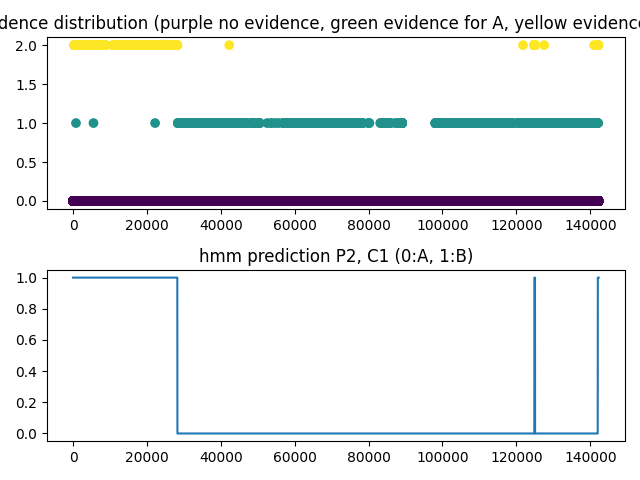
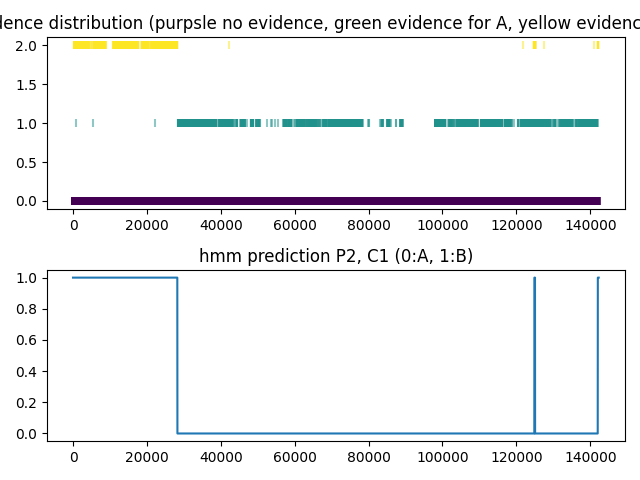
documentation and prettify of plots

diff --git a/scripts/hmm_reads.py b/scripts/hmm_reads.py
@@ -59,7 +59,7 @@ if __name__ == "__main__":
     for population in populations:
         for timestep in timesteps:
             for read in reads:
-                file=f'/home/jack/code/recombinant_population_analysis/results/msa/P2/7/P2_7_{read}_msa.fasta'
+                file=f'results/msa/P2/7/P2_7_{read}_msa.fasta'
                 out_folder=f'results/plots/recombination_evidences/reads/{population}_{timestep}_msa.png'
 
                 msa_matrix=read_msa(file)
@@ -68,15 +68,15 @@ if __name__ == "__main__":
                 
                 print(e_distribution)
 
-                o = viterbi(e_distribution, tp_np, ep_np, ip_np)
+                hmm_prediction = viterbi(e_distribution, tp_np, ep_np, ip_np)
 
                 plt.subplot(2, 1, 1)
-                plt.plot(e_distribution)
+                plt.scatter(range(len(e_distribution)), e_distribution, c=e_distribution, marker='|', alpha=0.5)
                 plt.title('e_distribution')
 
                 plt.subplot(2, 1, 2)
-                plt.plot(o)
-                plt.title('o')
+                plt.plot(hmm_prediction)
+                plt.title('hmm_prediction')
 
                 plt.tight_layout()
                 plt.show()

diff --git a/scripts/hmm_clones.py b/scripts/hmm_clones.py
@@ -69,7 +69,7 @@ if __name__ == "__main__":
             hmm_prediction = viterbi(e_distribution, tp_np, ep_np, ip_np)
 
             plt.subplot(2, 1, 1)
-            plt.scatter(range(len(e_distribution)), e_distribution, c=e_distribution)
+            plt.scatter(range(len(e_distribution)), e_distribution, c=e_distribution, marker='|', alpha=0.5)
             plt.title('evidence distribution (purple no evidence, green evidence for A, yellow evidence for B)')
 
             plt.subplot(2, 1, 2)

diff --git a/notes/note1.md b/notes/note1.md
@@ -33,10 +33,10 @@ To test that it is working i have to define some reasonable probability matrices
 
 - emission probability matrix
 
-|    |a         |b        |.        |
-|----|----------|---------|---------|
-|A   |0.40      |0.01     |0.59     |
-|B   |0.01      |0.40     |0.59     |
+|    |.        |a        |b        |
+|----|---------|---------|---------|
+|A   |0.59     |0.40     |0.01     |
+|B   |0.59     |0.01     |0.40     |
 
 Now i will generate sequences with these probabilities
 
@@ -68,10 +68,10 @@ i think that to use the viterbi script i have to convert every title of the matr
 
 - emission probability matrix
 
-|    |0         |1        |2        |
-|----|----------|---------|---------|
-|0   |0.40      |0.01     |0.59     |
-|1   |0.01      |0.40     |0.59     |
+|    |0        |1        |2        |
+|----|---------|---------|---------|
+|0   |0.59     |0.40     |0.01     |
+|1   |0.59     |0.01     |0.40     |
 
 for this reason the previously produced sequence has to be translated to numbers
 
@@ -99,4 +99,47 @@ The recombination evidences are extracted from the msa of the two reference sequ
 
 In hmm.py it is defined the Viterbi algorithm and the probability matrices. We take the recombination evidences of the clones and we give them in input to the Viterbi algorithm.
 
+for the clones i used the following matrices:
+
+- initial probability matrix
+
+|    |      |
+|----|------|
+|0   |0.5   |
+|1   |0.5   |
+
+- transition probability matrix
+
+|    |0       |1       |
+|----|--------|--------|
+|0   |0.999   |0.001   |
+|1   |0.00    |0.999   |
+
+- emission probability matrix
+
+|    |0         |1        |2        |
+|----|----------|---------|---------|
+|0   |0.949     |0.05     |0.001    |
+|1   |0.949     |0.001    |0.05     |
+
+to obtain sensible results from i modified the viterbi algorithm to do additions between logarithms instead of multiplications between probabilities. this is because otherwise the probability would become too small.
+
+this is the result:
+![example_clone_prediction](../results/plots/clones/P2_C2_msa.png)
+
 ### reads of phage population
+
+the same procedure is applied to the reads of the population. in this case the array of evidences is much more noisy:
+
+![noisy_read_evidences](images/noisy_read_evidences.png)
+
+i tried to tweak a bit the parameters but the resutls have many problems:
+
+at this point it would be nice to infer the correct parameters of the probability matrices to see if the situation can get better.
+
+#### parameters estimation
+
+##### emission probabilities
+
+to estimate the emission probabilities we can use reads of a sequencing run of a pure phage. by aligning these reads to the msa of references we can see with which frequency ., a and b evidences occur.
+
